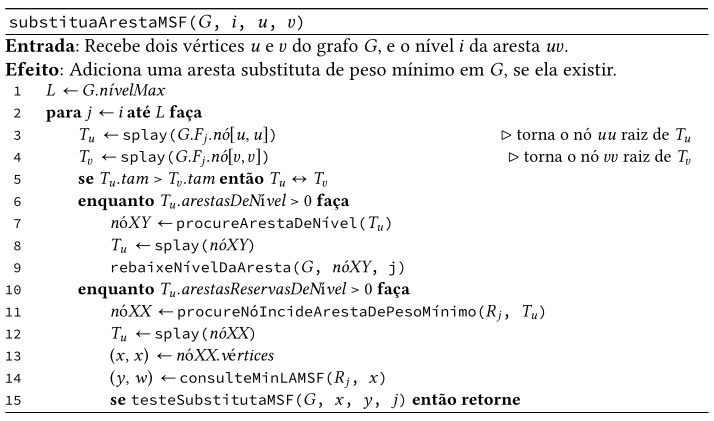
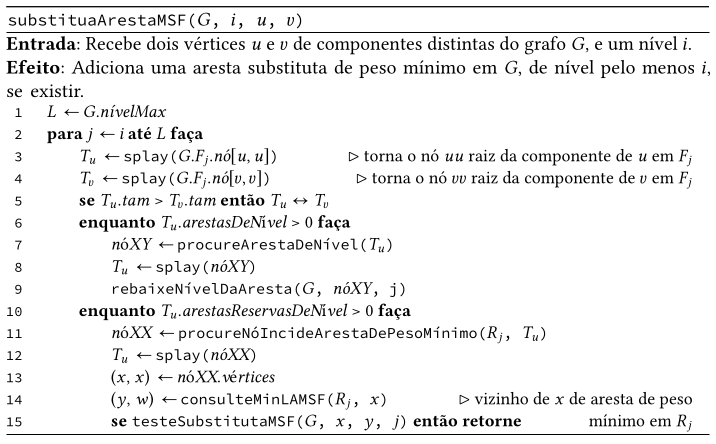
chore: add pictures and fix poster

Changed region(s): [[0.0, 0.0, 1.0, 0.9881], [0.4622, 0.3088, 0.986, 0.4323]]

diff --git a/thesis/poster.tex b/thesis/poster.tex
@@ -12,7 +12,7 @@
 \usepackage{listings}
 \usepackage{tikz}
 \usetikzlibrary{matrix,shapes,positioning,shadows,trees,patterns}
-
+\usepackage{xcolor}
 \usepackage[shortlabels]{enumitem}
 \usepackage[numbers]{natbib}
 \bibliographystyle{plainnat}
@@ -72,7 +72,7 @@
 mínimo em grafos dinâmicos}
 \author{Chung Jin Shian \hspace{200pt} Orientadora: Cristina Gomes Fernandes}
 \institute{\vspace{10pt}Departamento de Ciência da Computação,
-Instituto de Matemática e Estatística, Universidade de São Paulo}
+Instituto de Matemática, Estatística e Ciência da Computação, Universidade de São Paulo}
 
 
 \begin{document}
@@ -85,7 +85,7 @@ Instituto de Matemática e Estatística, Universidade de São Paulo}
     % ----------------------------------------------------------------------------------------
     \onethirdcol
     \begin{alertblock}{Resumo}
-      Grafos dinâmicos permitem modelar problemas em que o conjunto de arestas do grafo sofre alterações ao longo do tempo. Um dos problemas fundamentais nesse contexto é a manutenção de uma árvore geradora de custo mínimo do grafo dinâmico. Estudamos vários algoritmos propostos por Holm, de Lichtenberg e Thorup \cite{jacob_holm} para variantes desse problema. O foco foi no algoritmo para manter uma floresta maximal de custo mínimo (MSF) decremental, que dá suporte eficiente à remoção de arestas. Esse algoritmo foi implementado e testado em grafos com centenas de milhares de vértices. 
+      Grafos dinâmicos permitem modelar problemas em que o grafo sofre alterações ao longo do tempo. Um dos problemas fundamentais nesse contexto é a manutenção de uma árvore geradora de custo mínimo de um grafo dinâmico. Estudamos vários algoritmos propostos por Holm, de Lichtenberg e Thorup \cite{jacob_holm} para variantes desse problema. O foco foi no algoritmo para manter uma floresta maximal de custo mínimo (MSF) no contexto decremental, em que se dá suporte eficiente à remoção de arestas. Esse algoritmo foi implementado e testado em grafos dinâmicos com centenas de milhares de vértices. 
     \end{alertblock}
 
     \begin{block}{Conexidade em grafos dinâmicos}
@@ -103,11 +103,11 @@ Instituto de Matemática e Estatística, Universidade de São Paulo}
 
       \definecolor{shadecolor}{rgb}{0.74, 0.83, 0.9} % pale blue
       \begin{shaded}
-        \textbf{Ideia:} Fatiar o grafo $G$ em níveis. Cada aresta do grafo possui um nível entre 1 e $\left\lceil \lg n \right\rceil$, onde $n$
-        é o número de vértices do grafo $G$. Uma aresta, ao ser inserida em $G$, começa com o nível $\left\lceil \lg n \right\rceil$ e, durante o algoritmo, seu nível vai sendo decrementado. Seja $G_i$ = $G[X]$ onde $X$ é o conjunto das arestas do grafo $G$ de nível menor ou igual a $i$. Para cada nível $i$, o algoritmo mantém uma floresta maximal $F_i$ de $G_i$. Além disso, ele mantém também um grafo $R_i$ em forma de listas de adjacências, que guardam as arestas de nível $i$ que não estejam em $F_i$, chamadas de arestas reserva.
+        \textbf{Ideia:} Fatiar o grafo $G$ em níveis. Cada aresta de $G$ possui um nível entre 1 e $\left\lceil \lg n \right\rceil$, onde $n$
+        é o número de vértices de $G$. Uma aresta, ao ser inserida em $G$, começa com o nível $\left\lceil \lg n \right\rceil$ e, durante o algoritmo, seu nível vai sendo decrementado. Seja $G_i$ o subgrafo de $G$ com as arestas de $G$ de nível menor ou igual a $i$. Para cada nível $i$, o algoritmo mantém uma floresta maximal $F_i$ de $G_i$. Além disso, ele mantém também o subgrafo $R_i$ de $G$ com as arestas de nível $i$ que não estão em $F_i$, chamadas de arestas reserva.
       \end{shaded}
 
-      Cada floresta $F_i$ é mantida em uma estrutura de dados específica para florestas dinâmicas, baseada em Euler tour trees. Cada componente de $F_i$ é armazenada como uma Euler tour tree. Em nossa implementação, Euler tour trees são implementadas como splay trees.
+      Cada grafo $R_i$ é mantido por suas listas de adjacências. Já cada floresta $F_i$ é mantida em uma estrutura de dados específica para florestas dinâmicas, baseada em Euler tour trees. Cada componente de $F_i$ é armazenada como uma Euler tour tree. Em nossa implementação, Euler tour trees são implementadas como splay trees.
       
 
       \begin{figure}[H]
@@ -229,8 +229,8 @@ Instituto de Matemática e Estatística, Universidade de São Paulo}
                     \draw[edge] (ab) -- (ea) node[midway, below] {};
                     \draw[edge] (ab) -- (bb) node[midway, below] {};
 
-                    \node at (-4, 0.9) {Euler tour};
-                    \node at (-4, 0) {tree de $T$};
+                    \node at (-4, 0.9) {\textcolor{blue}{Euler tour}};
+                    \node at (-4, 0) {\textcolor{blue}{tree de $T$}};
               \end{tikzpicture}
               % Adiciona uma label ou descrição para o terceiro gráfico
           \end{minipage}
@@ -303,6 +303,23 @@ O algoritmo mantém as seguintes invariantes:
 
     \end{block}
 
+    \begin{block}{MSF decremental}
+         O problema da manutenção de uma MSF decremental do grafo visa uma implementação eficiente dos métodos da biblioteca abaixo:
+      
+      \definecolor{shadecolor}{rgb}{0.93, 0.80, 0.82} % pale pink
+      \begin{shaded}
+        \begin{itemize}
+          \item[$\bullet$] \texttt{\textbf{MSFDecremental($n$, $E$)}}: constrói e devolve o grafo ponderado $G$ com $n$ vértices e as arestas ponderadas dadas no conjunto $E$;
+          \item[$\bullet$] \texttt{\textbf{consultePesoMSF($G$)}}: devolve o peso de uma MSF do grafo ponderado $G$;
+          \item[$\bullet$] \texttt{\textbf{removaMSF($G$, $u$, $v$)}}: remove a aresta $uv$ do grafo ponderado $G$.
+        \end{itemize}
+      \end{shaded}
+
+      \definecolor{shadecolor}{rgb}{0.74, 0.83, 0.9} % pale blue
+      \begin{shaded}
+        \textbf{Ideia:} remover uma aresta de nível $i$ da floresta $F_i$, quebra uma componente desta em duas, $T_u$ e $T_v$. Precisamos buscar uma aresta substituta \textbf{com o menor peso} que ligue $T_u$ a $T_v$. Em vez de usar listas de adjacências para armazenar os vizinhos de cada vértice em $R_i$, usa-se um min-heap, onde a chave para um vizinho $v$ é o peso da aresta $uv$. Assim, basta procurar por uma aresta em $R_i$ que incida em $T_u$, que tenha o menor peso e que conecte $T_u$ e $T_v$, para podermos manter o peso mínimo de uma MSF do grafo ao longo das remoções de arestas. 
+      \end{shaded}
+    \end{block}
 
 
 
@@ -338,25 +355,10 @@ O algoritmo mantém as seguintes invariantes:
     % ----------------------------------------------------------------------------------------
     \onethirdcol
 
-    \begin{block}{MSF decremental}
+    \begin{block}{}
       
-     O problema da manutenção de uma MSF decremental do grafo visa uma implementação eficiente dos métodos da biblioteca abaixo:
-      
-      \definecolor{shadecolor}{rgb}{0.93, 0.80, 0.82} % pale pink
-      \begin{shaded}
-        \begin{itemize}
-          \item[$\bullet$] \texttt{\textbf{MSFDecremental($n$, $E$)}}: constrói e devolve o grafo ponderado $G$ com $n$ vértices e as arestas ponderadas dadas no conjunto $E$;
-          \item[$\bullet$] \texttt{\textbf{consultePesoMSF($G$)}}: devolve o peso de uma MSF do grafo ponderado $G$;
-          \item[$\bullet$] \texttt{\textbf{removaMSF($G$, $u$, $v$)}}: remove a aresta $uv$ do grafo ponderado $G$.
-        \end{itemize}
-      \end{shaded}
 
-      \definecolor{shadecolor}{rgb}{0.74, 0.83, 0.9} % pale blue
-      \begin{shaded}
-        \textbf{Ideia:} remover uma aresta de nível $i$ da floresta $F_i$, quebra uma componente desta em duas, $T_u$ e $T_v$. Precisamos buscar uma aresta substituta com o menor peso que ligue $T_u$ a $T_v$. Em vez de usar listas de adjacências para armazenar os vizinhos de cada vértice, usa-se um min-heap, onde a chave para um vizinho $v$ será o peso da aresta $uv$. Dessa forma, basta procurar por uma aresta em $R_i$ que incide em $T_u$ e que tenha o menor peso que conecte $T_u$ e $T_v$, para podermos manter o peso mínimo de uma MSF do grafo ao longo das remoções de arestas. 
-      \end{shaded}
-
-      Na figura abaixo, veja que as linhas $11$ e $14$ passamos a procurar a aresta de peso mínimo em $R_i$ incidente a $T_u$.
+      Na figura abaixo, veja que, nas linhas $11$ e $14$, passamos a procurar a aresta de peso mínimo em $R_i$ incidente a $T_u$. Note também que as linhas $1$ ao $9$ são idênticas às do método \texttt{substituaAresta}.
 
       \begin{figure}[htb]
           \centering
@@ -366,23 +368,38 @@ O algoritmo mantém as seguintes invariantes:
           \label{prog:replaceGDMSF_image} 
       \end{figure}
 
-    Abaixo está o consumo de tempo da nossa implementação:
+    Abaixo está o consumo de tempo da implementação:
 
     \definecolor{shadecolor}{rgb}{0.93, 0.80, 0.82} % pale pink
       \begin{shaded}
         \begin{itemize}
-            \item[$\bullet$] \texttt{\textbf{grafoDinâmico($n$)}}: $\Oh(n \lg m)$;
+            \item[$\bullet$] \texttt{\textbf{MSFDecremental($n$, $E$)}}: $\Oh(|E| \lg n)$;
             \item[$\bullet$] \texttt{\textbf{consultePesoMSF($G$)}}: $\Oh(1)$;
             \item[$\bullet$]  \texttt{\textbf{removaGD($G$, $u$, $v$)}}: amortizado $\Oh(\lg^2 n)$.
         \end{itemize} 
       \end{shaded}
 
-      Testamos a remoção das arestas das um grafo $G$ com 300.000 vértices e 300.000 arestas, realizando uma comparação da performance do algoritmo de Kruskal e da MSF decremental que implementamos. 
+      Testamos a remoção das arestas de um grafo $G$ com 20.000 vértices e mais de 140.000 arestas, realizando uma comparação da performance do algoritmo de Kruskal e da MSF decremental que implementamos. 
 
+      \begin{figure}[htb]
+          \centering
+  
+          \includegraphics[width=1\linewidth]{performance_graph.png}
+          
+          \label{prog:graph_performance} 
+      \end{figure}
 
-      <INSERIR GRÁFICO DA COMPARAÇÃO DA PERFORMANCE>
+      \begin{figure}[htb]
+          \centering
+  
+          \includegraphics[width=1\linewidth]{performance_table.png}
+          
+          \label{prog:chart_performance} 
+      \end{figure}
+
 
     \end{block}
+
 
     \begin{block}{Informações e contato}
       Para mais informações, acesse a página do trabalho: \textcolor{jblue}{{\url{https://linux.ime.usp.br/~cjinshian/}}}
